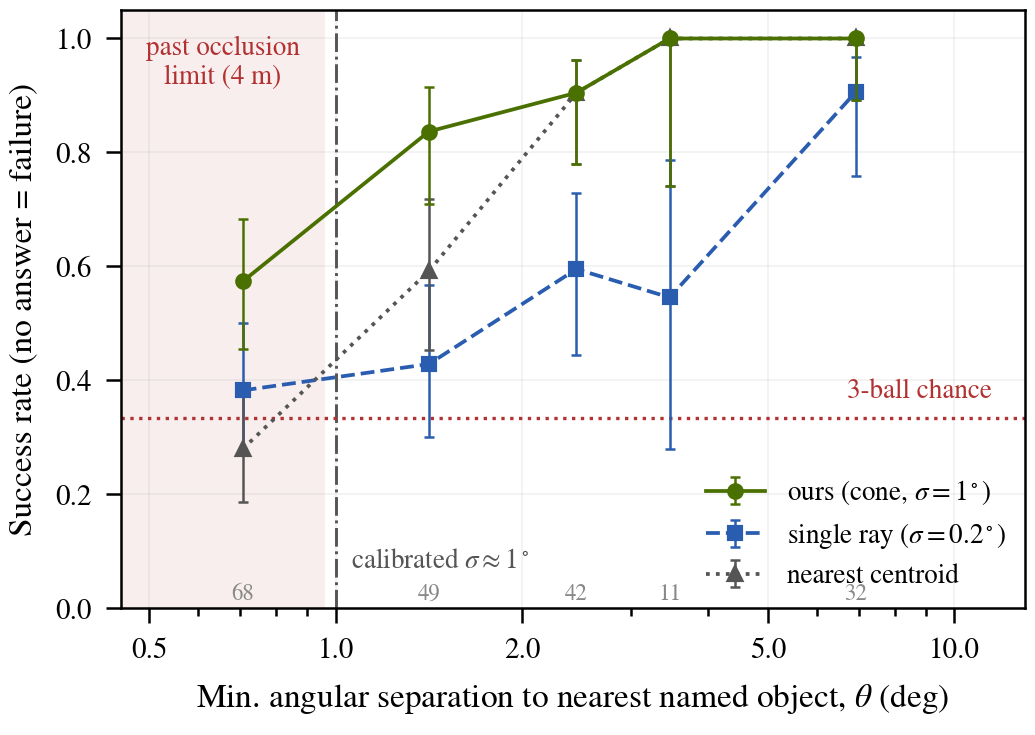
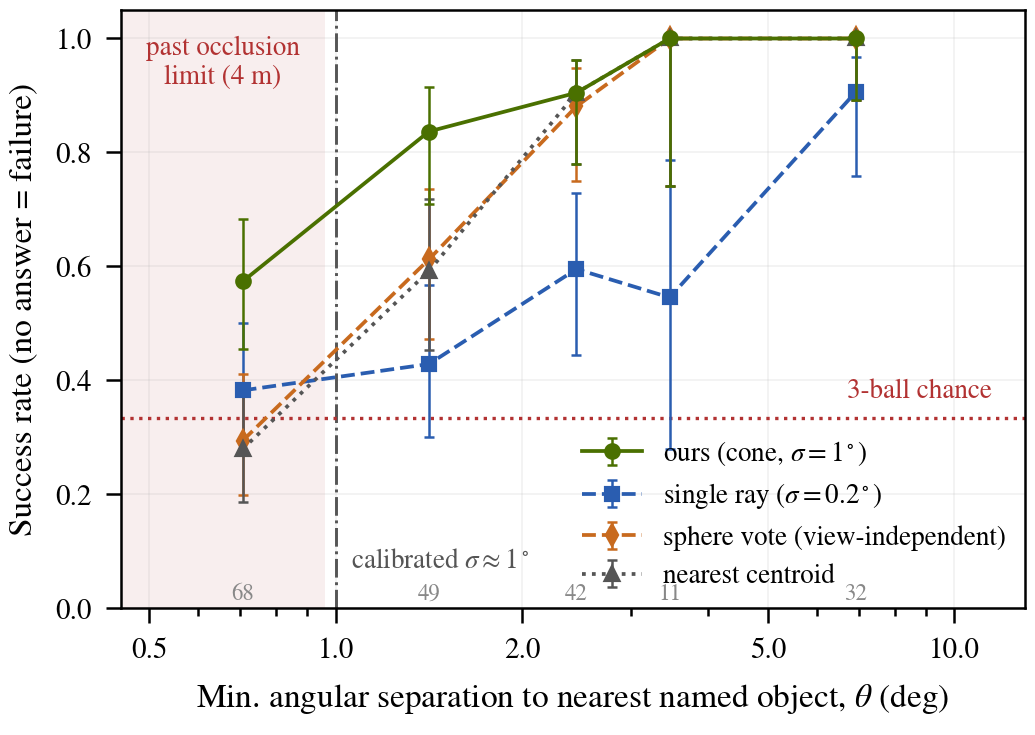
9-03 v2 消融跑完:可见性是最大单项(球投票 65%、<1° 档 21/69),场所词表在 v2 里几乎多余(桌子当目标 77%),米制聚类 74%;图 A 加球投票线
- 三行全在 v2 口径与录制时地图上跑:v2sphere 132/204、v2table 157/204、v2cluster0 150/204;对照 v2 156、v2 σ=1° 162、单射线 109、最近质心 130。
- 球投票和最近质心一样差,说明值钱的不是投票而是只让渲染出的可见表面投票;桌子当目标只多 7 条多余、边走少 1,面积归一后验自己压住了桌子,v1 的先验 0 在 v2 里没有必要,替代旧表的 priors_off;votescope_all 不再列。
- Table II 加三行;docs/CONE_POSTERIOR_V2.md 消融一节;fig_theta 自动带上 sphere vote 线(与 nearest centroid 几乎重合,ours 在 1σ–2σ 档 84% 对 61%/59%)。

diff --git a/docs/E1_DATA/table2.md b/docs/E1_DATA/table2.md
@@ -16,3 +16,6 @@
 | v2s10 | 162/204 (79%) | 68/70 (97%) | 55/65 (85%) | 39/69 (57%) | 6/12 (50%) | 13/15 (87%) |
 | v2s05 | 144/204 (71%) | 60/70 (86%) | 45/65 (69%) | 39/69 (57%) | 4/12 (33%) | 7/15 (47%) |
 | v2s02 | 109/204 (53%) | 51/70 (73%) | 31/65 (48%) | 27/69 (39%) | 2/12 (17%) | 3/15 (20%) |
+| v2sphere | 132/204 (65%) | 68/70 (97%) | 43/65 (66%) | 21/69 (30%) | 4/12 (33%) | 12/15 (80%) |
+| v2table | 157/204 (77%) | 69/70 (99%) | 52/65 (80%) | 36/69 (52%) | 6/12 (50%) | 13/15 (87%) |
+| v2cluster0 | 150/204 (74%) | 69/70 (99%) | 49/65 (75%) | 32/69 (46%) | 6/12 (50%) | 14/15 (93%) |
